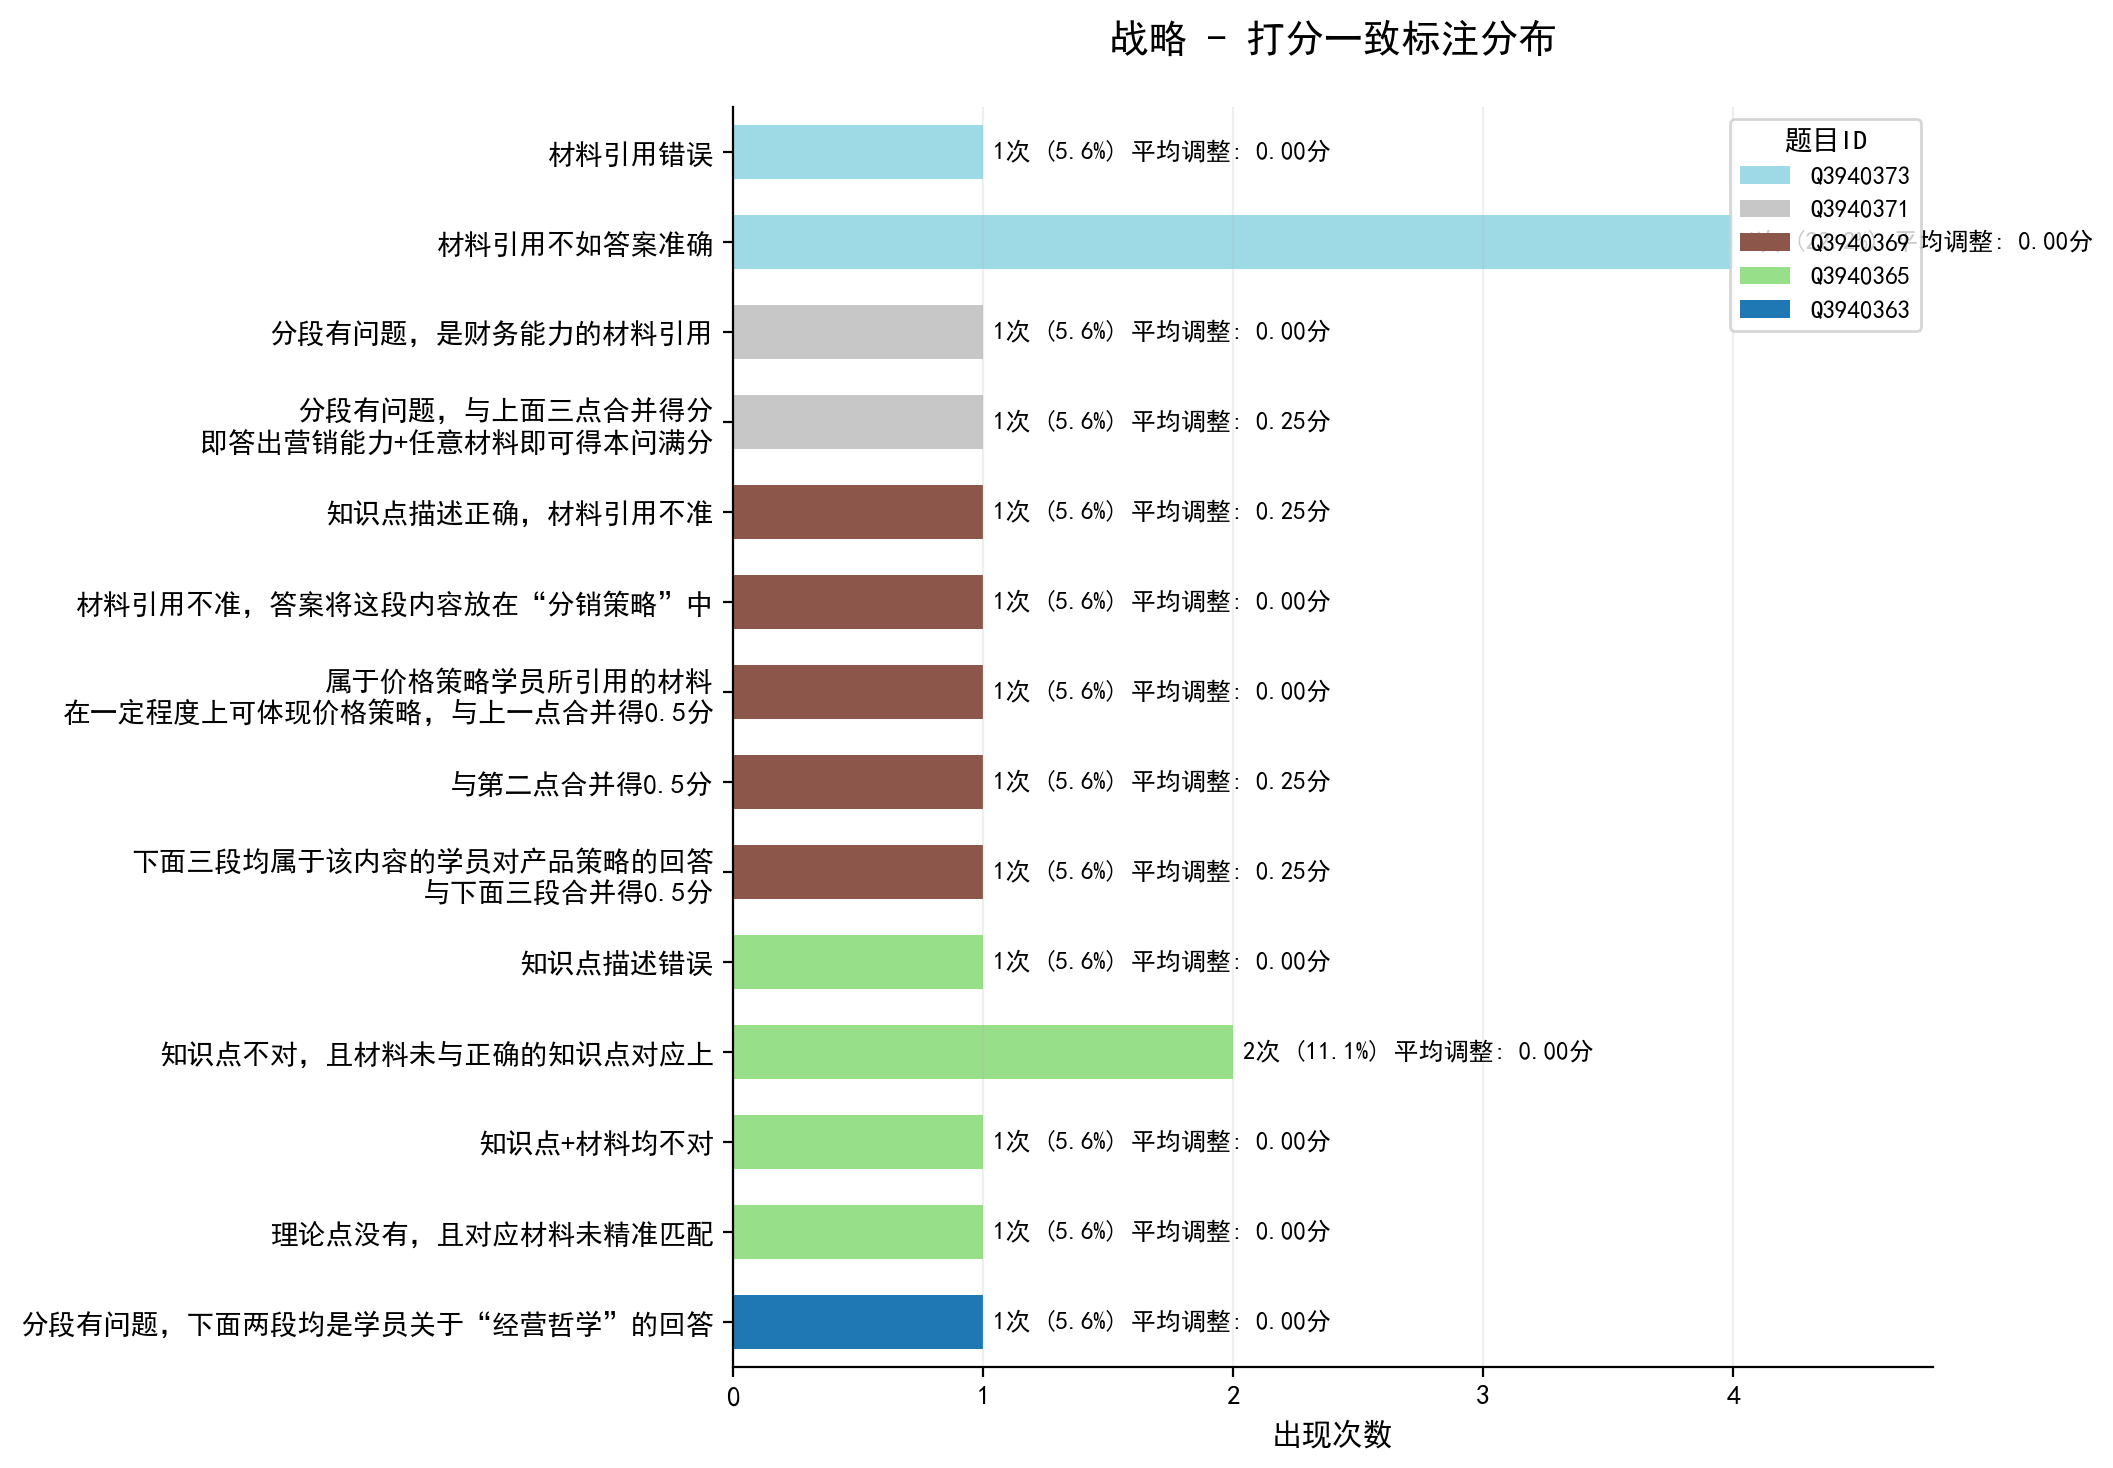
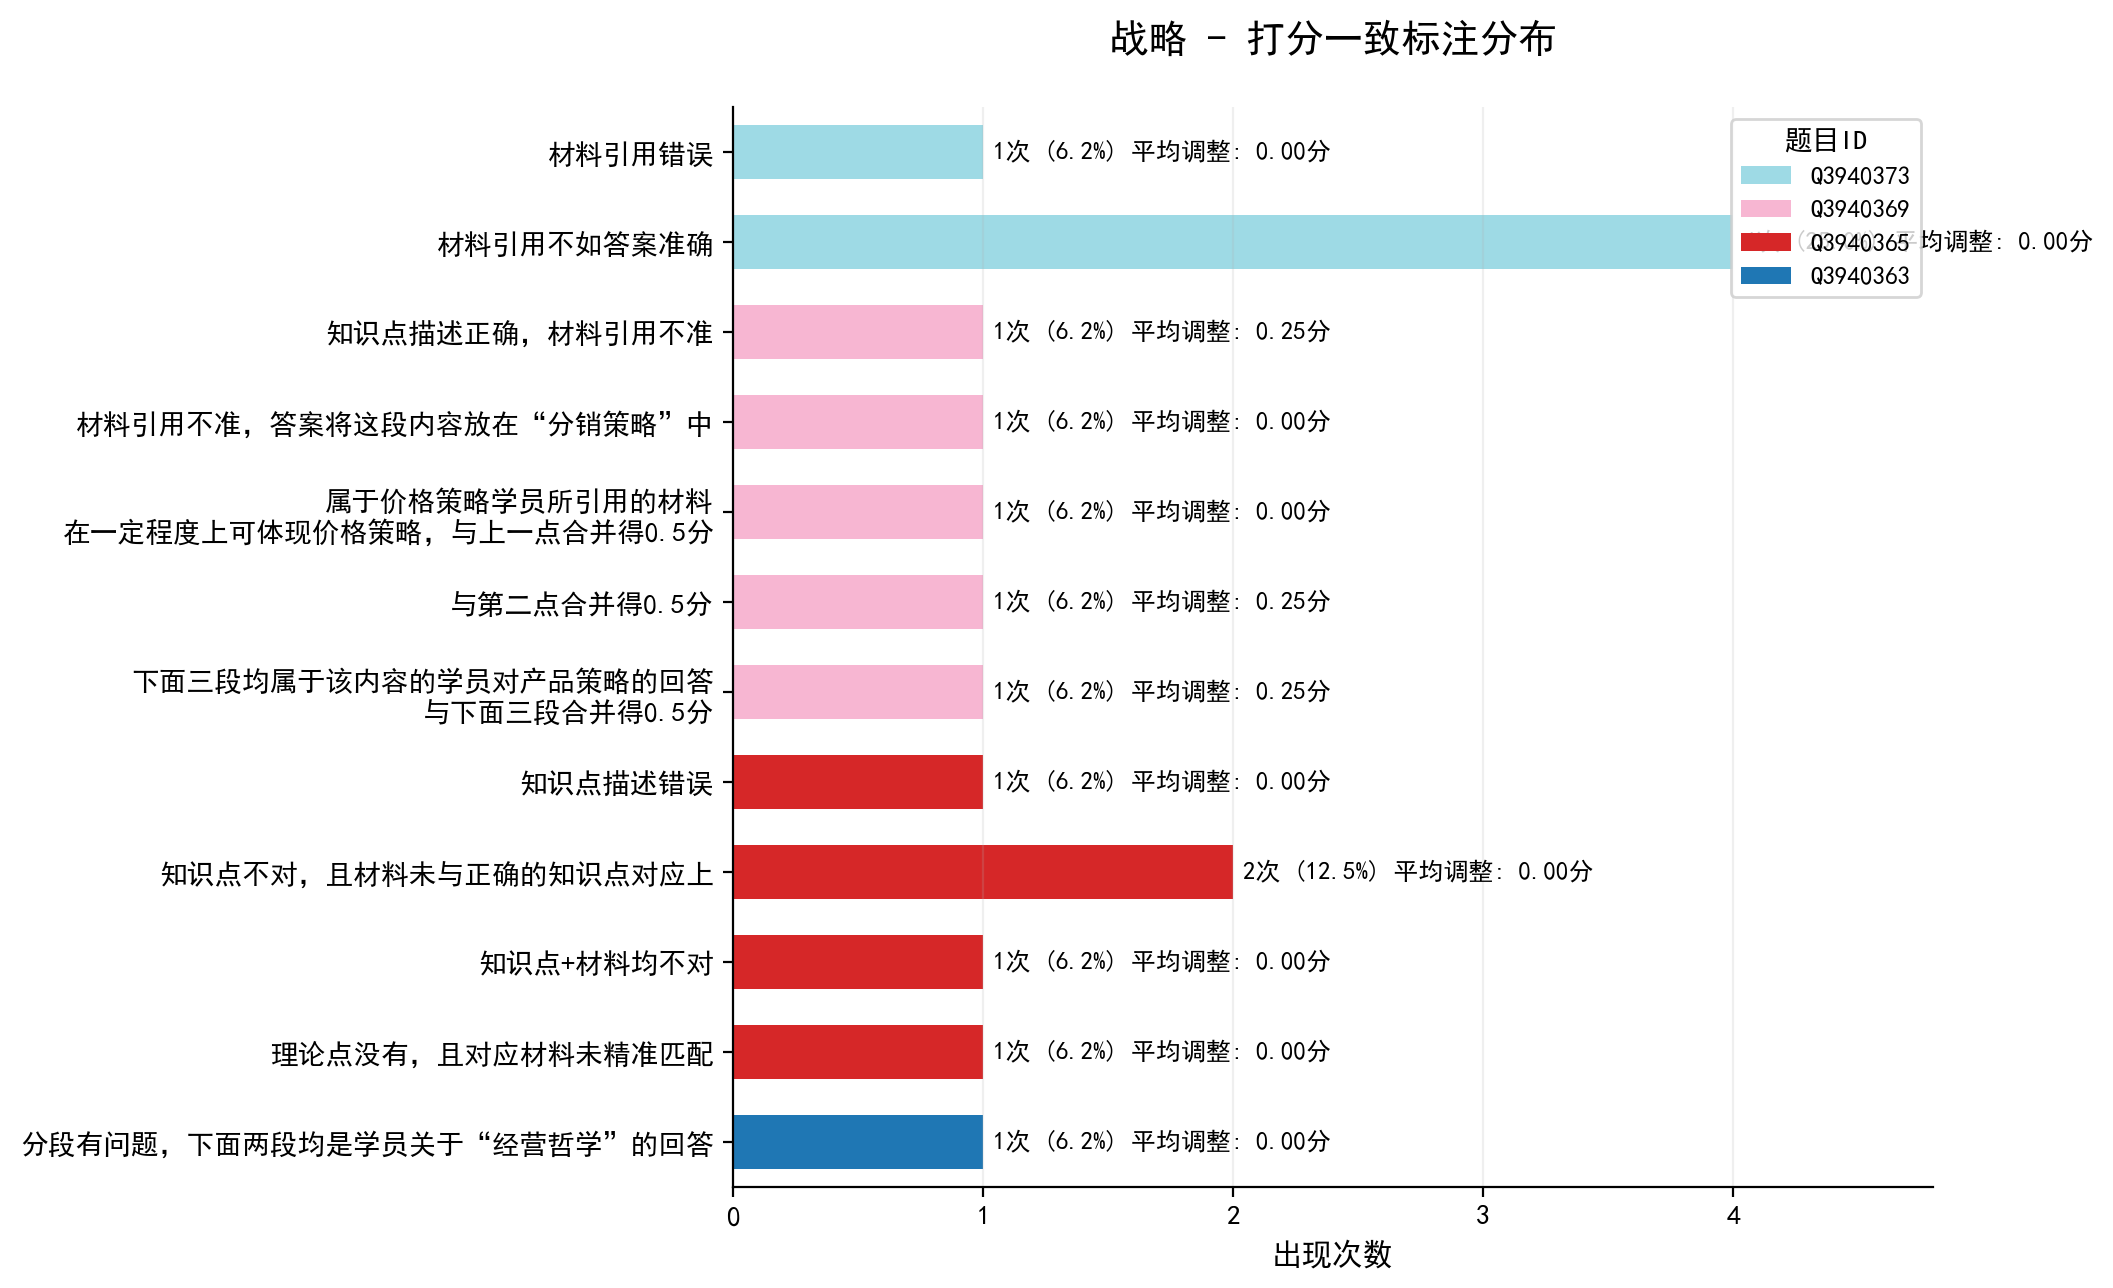
update data

diff --git a/report_output/report.html b/report_output/report.html
@@ -1606,11 +1606,11 @@
             </tr>
         
             <tr class="subject-end" data-subject="战略">
-        <td>战略</td><td>60</td><td>35.00%</td><td>40.00%</td><td>48.33%</td><td>73.33%</td><td>72.75%</td><td>73.59%</td><td>81.90%</td><td style="font-weight: bold; color: #221BE0;">81.90%</td>
+        <td>战略</td><td>40</td><td>52.50%</td><td>57.50%</td><td>70.00%</td><td>97.50%</td><td>75.91%</td><td>76.89%</td><td>85.92%</td><td style="font-weight: bold; color: #221BE0;">85.92%</td>
             </tr>
         
             <tr class="subject-end" data-subject="总计">
-        <td>总计</td><td>722</td><td>65.24%</td><td>77.01%</td><td>81.58%</td><td>93.49%</td><td>87.34%</td><td>88.89%</td><td>90.81%</td><td style="font-weight: bold; color: #221BE0;">89.91%</td>
+        <td>总计</td><td>702</td><td>67.09%</td><td>79.06%</td><td>83.76%</td><td>95.44%</td><td>88.22%</td><td>89.82%</td><td>91.53%</td><td style="font-weight: bold; color: #221BE0;">90.59%</td>
             </tr>
         
         </tbody>
@@ -1747,7 +1747,7 @@
             </tr>
         
             <tr class="subject-end" data-subject="战略">
-        <td>战略</td><td>知识点和材料</td><td>60</td><td>35.00%</td><td>40.00%</td><td>48.33%</td><td>73.33%</td><td>72.22%</td><td>73.33%</td>
+        <td>战略</td><td>知识点和材料</td><td>40</td><td>52.50%</td><td>57.50%</td><td>70.00%</td><td>97.50%</td><td>78.46%</td><td>80.00%</td>
             </tr>
         
         </tbody>
@@ -1828,12 +1828,12 @@
     </tr>
     <tr>
       <td>战略</td>
-      <td>60</td>
-      <td>10 (16.7%)</td>
-      <td>50 (83.3%)</td>
-      <td>2 (4.0%)</td>
-      <td>34 (68.0%)</td>
-      <td>14 (28.0%)</td>
+      <td>40</td>
+      <td>10 (25.0%)</td>
+      <td>30 (75.0%)</td>
+      <td>2 (6.7%)</td>
+      <td>15 (50.0%)</td>
+      <td>13 (43.3%)</td>
     </tr>
   </tbody>
 </table>
@@ -2042,7 +2042,7 @@
                 <div class="barchart-item" data-subject="战略" data-category="模型打分偏低">
                     <div class="chart-section">
                         <h5>战略 - 模型打分偏低</h5>
-                        <p class="chart-stats">记录数: 34 | 标注数: 95</p>
+                        <p class="chart-stats">记录数: 15 | 标注数: 35</p>
                         <div class="chart-scroll-container">
                             <img src="战略_low_model_smart.png" alt="战略模型打分偏低标注分布" 
                                  class="scrollable-chart">
@@ -2053,7 +2053,7 @@
                 <div class="barchart-item" data-subject="战略" data-category="打分一致">
                     <div class="chart-section">
                         <h5>战略 - 打分一致</h5>
-                        <p class="chart-stats">记录数: 14 | 标注数: 18</p>
+                        <p class="chart-stats">记录数: 13 | 标注数: 16</p>
                         <div class="chart-scroll-container">
                             <img src="战略_consistent_smart.png" alt="战略打分一致标注分布" 
                                  class="scrollable-chart">
